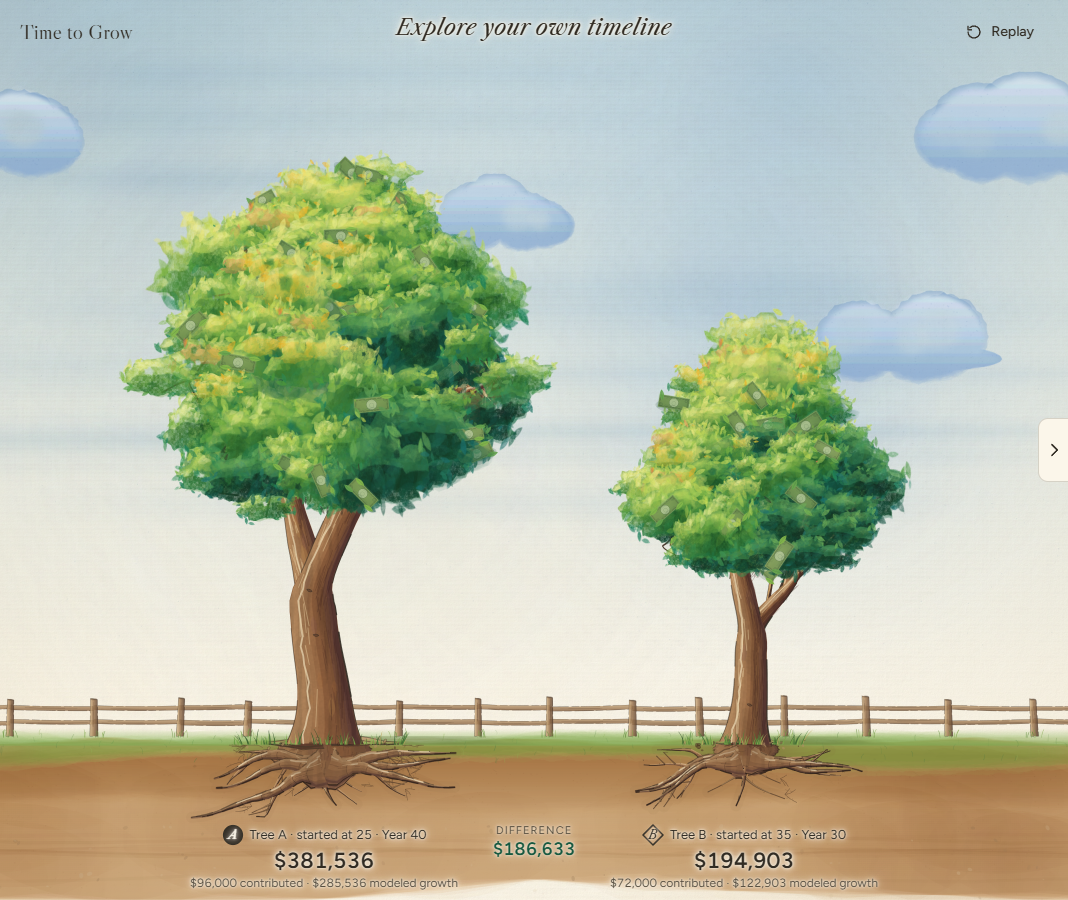
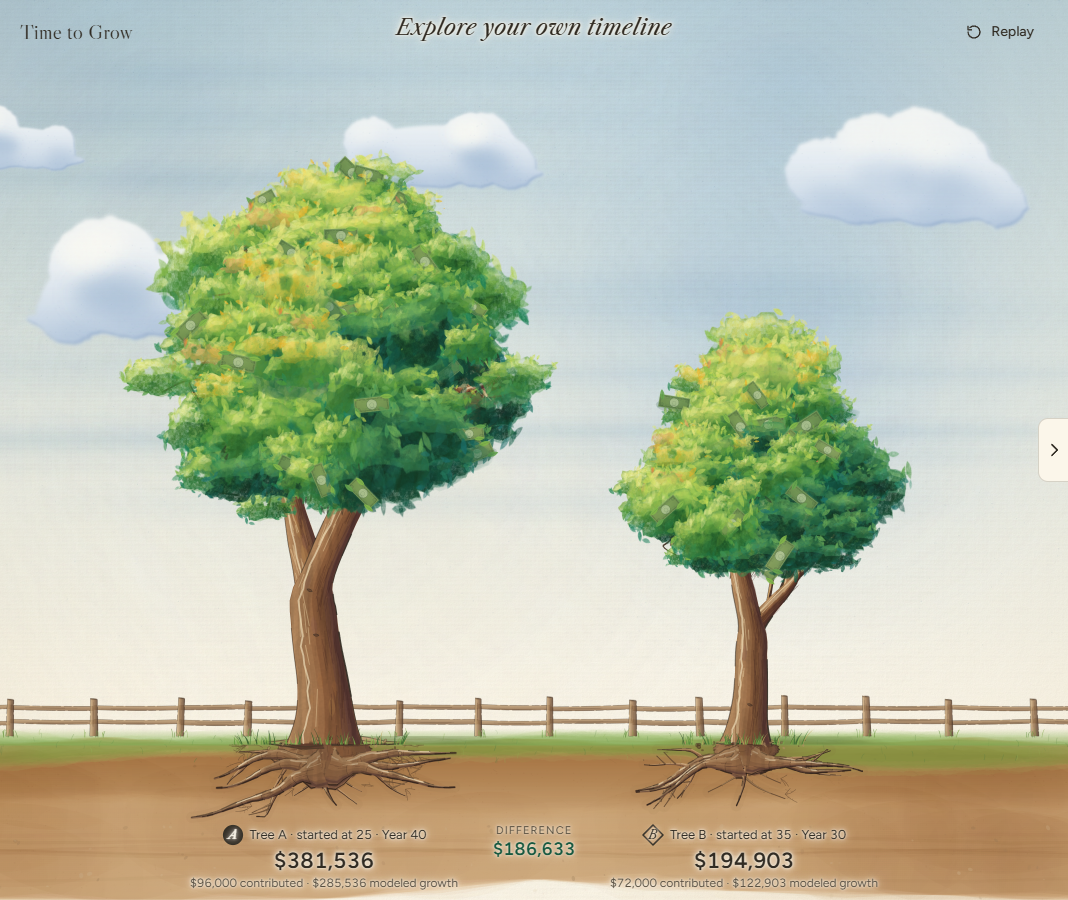
Nicer clouds: light cumulus lifted from the blue sky, soft billow shading, no dark outline

diff --git a/src/scene/watercolor.ts b/src/scene/watercolor.ts
@@ -1149,8 +1149,8 @@ export function paintSky(ctx: CanvasRenderingContext2D, Wd: number, Hd: number, 
   // 4. clouds
   const n = 5;
   for (let c = 0; c < n; c++) {
-    const cw = rnd.range(180, 320) * d;
-    const ch = cw * rnd.range(0.26, 0.36);
+    const cw = rnd.range(170, 300) * d;
+    const ch = cw * rnd.range(0.3, 0.4);
     const cx = ((c + rnd.range(0.15, 0.85)) / n) * Wd;
     const cy = rnd.range(0.16, 0.5) * hy;
     paintCloud(ctx, cx, cy, cw, ch, d, rnd);
@@ -1159,101 +1159,119 @@ export function paintSky(ctx: CanvasRenderingContext2D, Wd: number, Hd: number, 
 }
 
 function paintCloud(ctx: CanvasRenderingContext2D, cx: number, cy: number, cw: number, ch: number, d: number, rnd: Rand): void {
-  const pad = Math.ceil(ch * 0.6);
+  // A cumulus kept light against the blue sky: soft, near-white billows lit from the upper left, with
+  // gentle blue-grey shading under each billow and along the base. No outline: edges are soft wet edges.
+  const pad = Math.ceil(ch * 0.7);
   const W = Math.ceil(cw + pad * 2);
-  const H = Math.ceil(ch * 1.6 + pad * 2);
+  const H = Math.ceil(ch * 1.7 + pad * 2);
   const ox = pad;
-  const base = pad + ch * 1.15; // fairly flat underside
-  // irregular billows, merged into one shape per glaze
+  const base = pad + ch * 1.25;
   const lobes: Array<[number, number, number]> = [];
-  const k = rnd.int(6, 9);
-  for (let i = 0; i < k; i++) {
-    const t = rnd.range(0.08, 0.92);
-    const r = ch * (0.28 + 0.5 * Math.sin(Math.PI * t)) * rnd.range(0.75, 1.15);
-    lobes.push([ox + t * cw, base - r * rnd.range(0.5, 0.85), r]);
+  // a broad base row of smaller billows
+  const nb = rnd.int(3, 5);
+  for (let i = 0; i < nb; i++) {
+    const t = (i + rnd.range(0.25, 0.75)) / nb;
+    const r = ch * rnd.range(0.27, 0.4) * (0.78 + 0.22 * Math.sin(Math.PI * t));
+    lobes.push([ox + cw * (0.12 + 0.76 * t), base - r * rnd.range(0.6, 0.9), r]);
   }
+  // billows stacked higher toward the middle (slightly left of centre: the dome of the cloud)
+  const peak = rnd.range(0.38, 0.55);
+  const nt = rnd.int(3, 5);
+  for (let i = 0; i < nt; i++) {
+    const t = peak + rnd.range(-0.26, 0.26);
+    const lift = 1 - Math.min(1, Math.abs(t - peak) / 0.35);
+    const r = ch * rnd.range(0.36, 0.52) * (0.7 + 0.3 * lift);
+    lobes.push([ox + cw * t, base - ch * (0.3 + 0.42 * lift) - r * 0.15, r]);
+  }
+  lobes.sort((a, b) => b[1] - a[1]); // lower billows first, upper ones overlap them
   const lobePoly = (x: number, y: number, r: number, amp: number) => {
     const pts: number[] = [];
-    for (let j = 0; j < 22; j++) {
-      const a = (j / 22) * Math.PI * 2;
-      pts.push(x + Math.cos(a) * r, y + Math.sin(a) * r * 0.92);
+    for (let j = 0; j < 24; j++) {
+      const a = (j / 24) * Math.PI * 2;
+      pts.push(x + Math.cos(a) * r, y + Math.sin(a) * r * 0.9);
     }
     return deform(pts, rnd, 3, amp);
   };
-  // the joining base: a flattened oval, so the underside is a soft gentle curve rather than a ruled line
-  const slab: number[] = [];
-  for (let j = 0; j < 28; j++) {
-    const a = (j / 28) * Math.PI * 2;
-    slab.push(ox + cw * (0.5 + 0.37 * Math.cos(a)), base - ch * 0.2 + Math.sin(a) * ch * (Math.sin(a) > 0 ? 0.2 : 0.24));
+  // a flat-ish base joining the billows (a slightly lifted underside, not a ruled line)
+  const flat: number[] = [];
+  for (let j = 0; j < 24; j++) {
+    const a = (j / 24) * Math.PI * 2;
+    flat.push(ox + cw * (0.5 + 0.42 * Math.cos(a)), base - ch * 0.14 + Math.sin(a) * ch * 0.14);
   }
-  const union = (c: CanvasRenderingContext2D, grow: number, amp: number) => {
+  const shape = (c: CanvasRenderingContext2D, amp: number) => {
     for (const [x, y, r] of lobes) {
-      tracePoly(c, lobePoly(x, y, r * grow, amp));
+      tracePoly(c, lobePoly(x, y, r, amp));
       c.fill();
     }
-    tracePoly(c, deform(slab, rnd, 3, amp * 0.4));
+    tracePoly(c, deform(flat, rnd, 3, amp * 0.5));
+    c.fill();
+    // a solid core so no gaps open up between the billows
+    c.beginPath();
+    c.ellipse(ox + cw * 0.5, base - ch * 0.38, cw * 0.36, ch * 0.34, 0, 0, Math.PI * 2);
     c.fill();
   };
+
+  // silhouette (soft wet edge)
+  const mask = makeCanvas(W, H);
+  const m = mask.getContext('2d')!;
+  m.filter = `blur(${Math.max(1, ch * 0.016)}px)`;
+  m.fillStyle = '#000';
+  shape(m, 0.11);
+
   const cv = makeCanvas(W, H);
   const c = cv.getContext('2d')!;
-  const tmp = makeCanvas(W, H);
-  const t = tmp.getContext('2d')!;
-  const tint = t.createLinearGradient(0, base - ch * 1.3, 0, base);
-  tint.addColorStop(0, 'rgb(226,236,244)');
-  tint.addColorStop(0.5, 'rgb(176,204,232)');
-  tint.addColorStop(1, 'rgb(122,160,206)');
-  // thin glazes: each a slightly different deformed version of the whole cloud (soft, irregular edges)
-  const L = 12;
-  for (let i = 0; i < L; i++) {
-    t.globalCompositeOperation = 'source-over';
-    t.clearRect(0, 0, W, H);
-    t.fillStyle = '#000';
-    union(t, 0.86 + 0.16 * (i / L), 0.13);
-    t.globalCompositeOperation = 'source-in';
-    t.fillStyle = tint;
-    t.fillRect(0, 0, W, H);
-    c.globalAlpha = 0.085;
-    c.drawImage(tmp, 0, 0);
+  // body: soft white lifted out of the blue, faintly warm at the sunlit top
+  const body = c.createLinearGradient(0, base - ch * 1.4, 0, base);
+  body.addColorStop(0, 'rgba(253,251,245,0.9)');
+  body.addColorStop(0.6, 'rgba(240,244,248,0.86)');
+  body.addColorStop(1, 'rgba(220,230,240,0.84)');
+  c.fillStyle = body;
+  c.fillRect(0, 0, W, H);
+  c.globalCompositeOperation = 'destination-in';
+  c.drawImage(mask, 0, 0);
+  c.globalCompositeOperation = 'source-atop';
+  // shading under each billow and toward the lower right (light from the upper left), very soft
+  c.filter = `blur(${Math.max(3, ch * 0.09)}px)`;
+  for (const [x, y, r] of lobes) {
+    c.fillStyle = 'rgba(152,178,210,0.3)';
+    c.beginPath();
+    c.ellipse(x + r * 0.3, y + r * 0.66, r * 0.8, r * 0.38, 0.15, 0, Math.PI * 2);
+    c.fill();
   }
-  c.globalAlpha = 1;
-  // pigment pooling along the outer edge only (the outline of one glaze, minus its inside)
-  t.globalCompositeOperation = 'source-over';
-  t.clearRect(0, 0, W, H);
-  t.fillStyle = 'rgba(96,138,190,0.42)';
-  union(t, 1.0, 0.1);
-  t.globalCompositeOperation = 'destination-out';
-  t.filter = `blur(${Math.max(1.5, ch * 0.04)}px)`;
-  t.translate(W / 2, base);
-  t.scale(0.95, 0.94);
-  t.translate(-W / 2, -base);
-  t.fillStyle = '#000';
-  union(t, 1.0, 0.04);
-  t.setTransform(1, 0, 0, 1, 0, 0);
-  t.filter = 'none';
-  // the pooled edge is strongest along the billowing top and fades out toward the soft underside
-  t.globalCompositeOperation = 'destination-in';
-  const fadeRim = t.createLinearGradient(0, base - ch * 1.2, 0, base);
-  fadeRim.addColorStop(0, 'rgba(0,0,0,0.85)');
-  fadeRim.addColorStop(0.6, 'rgba(0,0,0,0.5)');
-  fadeRim.addColorStop(1, 'rgba(0,0,0,0.1)');
-  t.fillStyle = fadeRim;
-  t.fillRect(0, 0, W, H);
-  c.drawImage(tmp, 0, 0);
-  // lifted lights: pigment blotted back toward the paper near the sunlit tops
-  c.globalCompositeOperation = 'destination-out';
-  c.filter = `blur(${Math.max(2, ch * 0.06)}px)`;
-  for (let i = 0; i < 4; i++) {
-    const [x, y, r] = lobes[rnd.int(0, lobes.length - 1)]!;
-    c.fillStyle = `rgba(0,0,0,${rnd.range(0.25, 0.45)})`;
-    tracePoly(c, lobePoly(x - r * 0.15, y - r * 0.15, r * rnd.range(0.35, 0.5), 0.2));
+  // a cool shadow band along the base
+  const sh = c.createLinearGradient(0, base - ch * 0.75, 0, base + 4);
+  sh.addColorStop(0, 'rgba(160,184,214,0)');
+  sh.addColorStop(0.6, 'rgba(150,176,210,0.18)');
+  sh.addColorStop(1, 'rgba(140,168,206,0.4)');
+  c.filter = 'none';
+  c.fillStyle = sh;
+  c.fillRect(0, 0, W, H);
+  // re-light the tops of the upper billows (lifted pigment), softly
+  c.filter = `blur(${Math.max(3, ch * 0.08)}px)`;
+  for (const [x, y, r] of lobes) {
+    if (y > base - ch * 0.5) continue;
+    c.fillStyle = 'rgba(255,253,247,0.6)';
+    c.beginPath();
+    c.ellipse(x - r * 0.25, y - r * 0.35, r * 0.55, r * 0.32, -0.2, 0, Math.PI * 2);
     c.fill();
   }
   c.filter = 'none';
-  // granulation settling in the shadowed underside
-  c.globalCompositeOperation = 'source-atop';
-  for (let i = 0; i < 260; i++) {
-    c.fillStyle = `rgba(70,110,170,${rnd.range(0.08, 0.2)})`;
-    c.fillRect(rnd.range(ox, ox + cw), base - Math.pow(rnd.next(), 1.6) * ch * 1.1, d, d);
+  // a faint wet edge where the wash dried, only on the shaded lower-right side
+  {
+    const rim = makeCanvas(W, H);
+    const rc = rim.getContext('2d')!;
+    rc.drawImage(mask, 0, 0);
+    rc.globalCompositeOperation = 'destination-out';
+    rc.drawImage(mask, -Math.max(1.5, ch * 0.02), -Math.max(1.5, ch * 0.025));
+    rc.globalCompositeOperation = 'source-in';
+    rc.fillStyle = 'rgba(120,150,192,0.5)';
+    rc.fillRect(0, 0, W, H);
+    c.drawImage(rim, 0, 0);
+  }
+  // the faintest granulation in the shade
+  for (let i = 0; i < 160; i++) {
+    c.fillStyle = `rgba(110,140,180,${rnd.range(0.05, 0.12)})`;
+    c.fillRect(rnd.range(ox, ox + cw), base - Math.pow(rnd.next(), 2) * ch * 0.8, d, d);
   }
   c.globalCompositeOperation = 'source-over';
   ctx.drawImage(cv, cx - W / 2, cy - H / 2);
